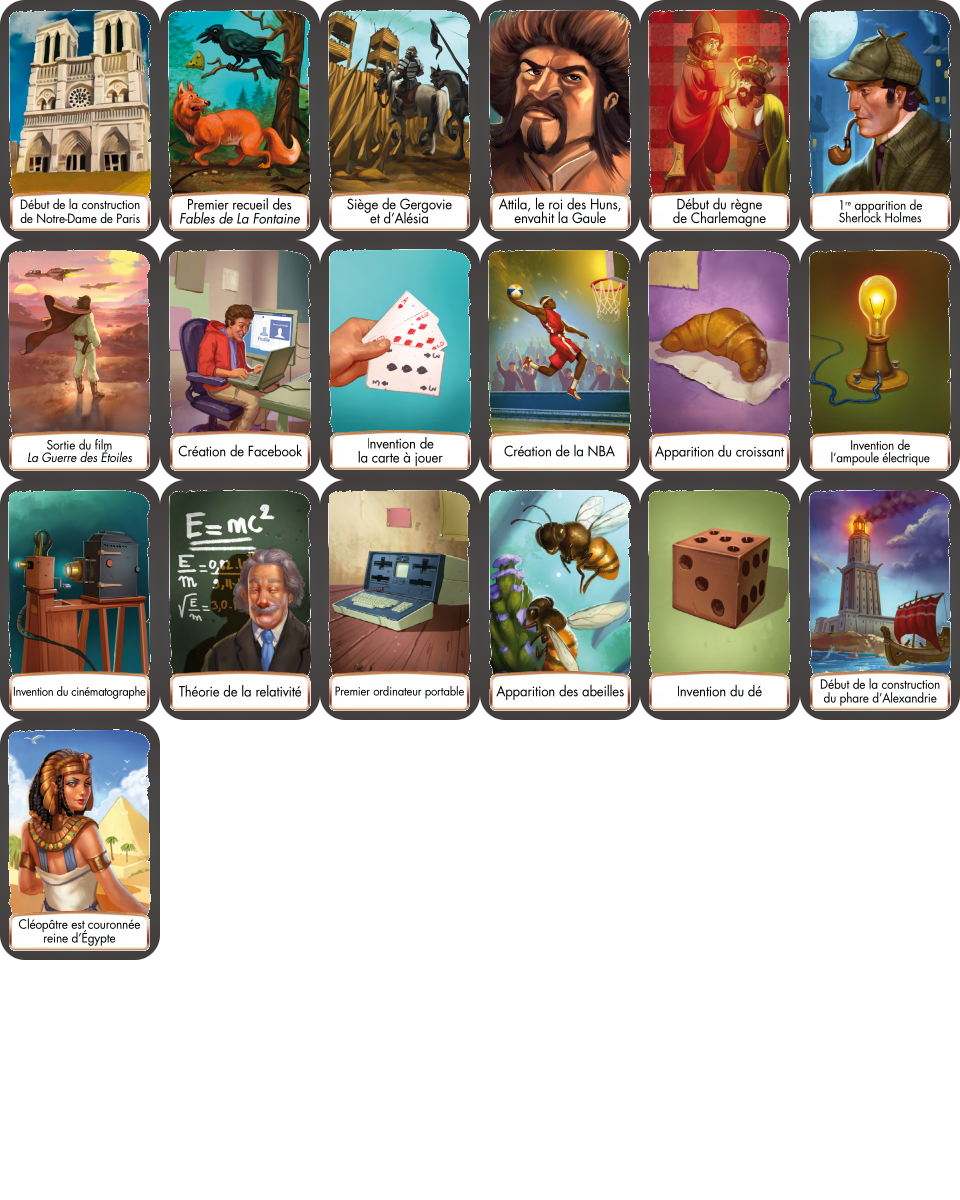
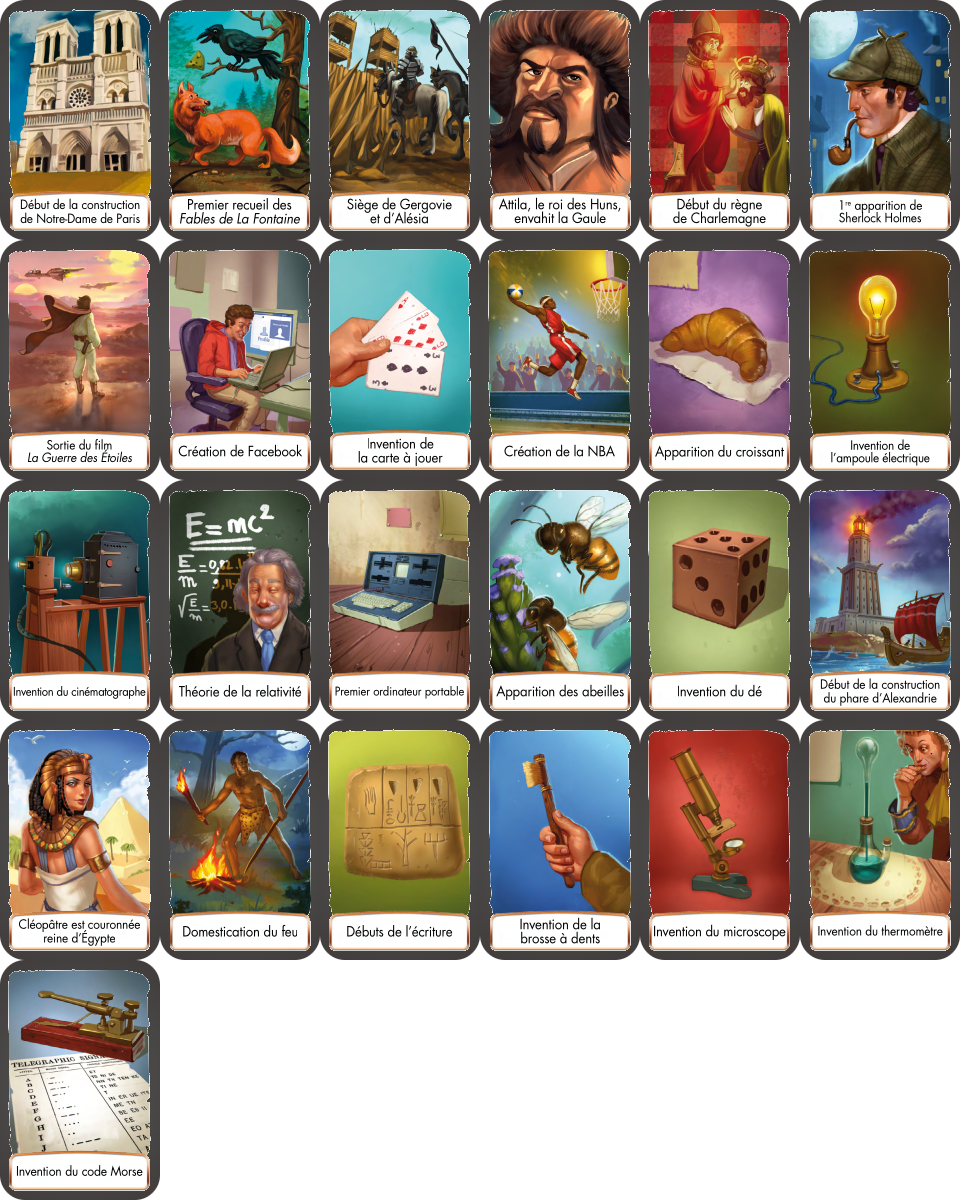
Added cards + cards info (collection + creator)

Changed region(s): [[0.0, 0.5858, 1.0, 1.0]]

diff --git a/src/helpers/Card.js b/src/helpers/Card.js
@@ -1,5 +1,5 @@
 export class Card {
-  constructor(scene){
+  constructor(scene) {
     this.scene = scene;
   }
 
@@ -11,25 +11,31 @@ export class Card {
 }
 
 export const cardsData = [
-  { id: 0, name: 'Début de la construction de Notre-Dame de Paris', date: 1163 },
-  { id: 1, name: 'Premier recueil des Fables de La Fontaine', date: 1668 },
-  { id: 2, name: 'Siège de Gergovie et d’Alésia', date: -52 },
-  { id: 3, name: 'Attila, le roi des Huns, envahit la Gaule', date: 451 },
-  { id: 4, name: 'Début du règne de Charlemagne', date: 768 },
-  { id: 5, name: 'Première apparition de Sherlock Holmes', date: 1887 },
-  { id: 6, name: 'Sortie du film La Guerre des Etoiles', date: 1977 },
-  { id: 7, name: 'Création de Facebook', date: 2004 },
-  { id: 8, name: 'Invention de la carte à jouer', date: 900 },
-  { id: 9, name: 'Création de la NBA', date: 1946 },
-  { id: 10, name: 'Apparition du croissant', date: 1683 },
-  { id: 11, name: 'Invention de l’ampoule électrique', date: 1879 },
-  { id: 12, name: 'Invention du cinématographe', date: 1895 },
-  { id: 13, name: 'Théorie de la relativité', date: 1915 },
-  { id: 14, name: 'Premier ordinateur portable', date: 1981 },
-  { id: 15, name: 'Apparition des abeilles', date: -100000000 },
-  { id: 16, name: 'Invention du dé', date: -3000 },
-  { id: 17, name: 'Début de la construction du phare d\'Alexandrie', date: -297 },
-  { id: 18, name: 'Cléopâtre est couronnée reine d\'Egypte', date: -51 },
+  { id: 0, name: 'Début de la construction de Notre-Dame de Paris', creator: '', collection: 'France', date: 1163 },
+  { id: 1, name: 'Premier recueil des Fables de La Fontaine', creator: '', collection: 'France', date: 1668 },
+  { id: 2, name: 'Siège de Gergovie et d’Alésia', creator: '', collection: 'France', date: -52 },
+  { id: 3, name: 'Attila, le roi des Huns, envahit la Gaule', creator: '', collection: 'France', date: 451 },
+  { id: 4, name: 'Début du règne de Charlemagne', creator: '', collection: 'France', date: 768 },
+  { id: 5, name: 'Première apparition de Sherlock Holmes', creator: 'Arthur Conan Doyle', collection: 'General', date: 1887 },
+  { id: 6, name: 'Sortie du film La Guerre des Etoiles', creator: 'Georges Lucas', collection: 'General', date: 1977 },
+  { id: 7, name: 'Création de Facebook', creator: 'Mark Zuckerberg', collection: 'General', date: 2004 },
+  { id: 8, name: 'Invention de la carte à jouer', creator: '', collection: 'General', date: 900 },
+  { id: 9, name: 'Création de la NBA', creator: '', collection: 'General', date: 1946 },
+  { id: 10, name: 'Apparition du croissant', creator: '', collection: 'General', date: 1683 },
+  { id: 11, name: 'Invention de l’ampoule électrique', creator: 'Thomas Edison', collection: 'Invention', date: 1879 },
+  { id: 12, name: 'Invention du cinématographe', creator: 'Auguste et Louis Lumière', collection: 'Invention', date: 1895 },
+  { id: 13, name: 'Théorie de la relativité', creator: 'Albert Einstein', collection: 'Invention', date: 1915 },
+  { id: 14, name: 'Premier ordinateur portable', creator: 'Adam Osborne', collection: 'Invention', date: 1981 },
+  { id: 15, name: 'Apparition des abeilles', creator: '', collection: 'General', date: -100000000 },
+  { id: 16, name: 'Invention du dé', creator: '', collection: 'General', date: -3000 },
+  { id: 17, name: 'Début de la construction du phare d\'Alexandrie', creator: '', collection: 'General', date: -297 },
+  { id: 18, name: 'Cléopâtre est couronnée reine d\'Egypte', creator: '', collection: 'General', date: -51 },
+  { id: 19, name: 'Domestication du feu', creator: '', collection: 'Invention', date: -600000 },
+  { id: 20, name: 'Débuts de l\'écriture', creator: '', collection: 'Invention', date: -3400 },
+  { id: 21, name: 'Invention de la brosse à dents', creator: '', collection: 'Invention', date: 1498 },
+  { id: 22, name: 'Invention du microscope', creator: 'Zacharias Jansen', collection: 'Invention', date: 1590 },
+  { id: 23, name: 'Invention du thermomètre', creator: 'Galilée', collection: 'Invention', date: 1612 },
+  { id: 24, name: 'Invention du code morse', creator: 'Samuel Finley Morse', collection: 'Invention', date: 1838 },
 ];
 /*
 export  const cardsData = [
